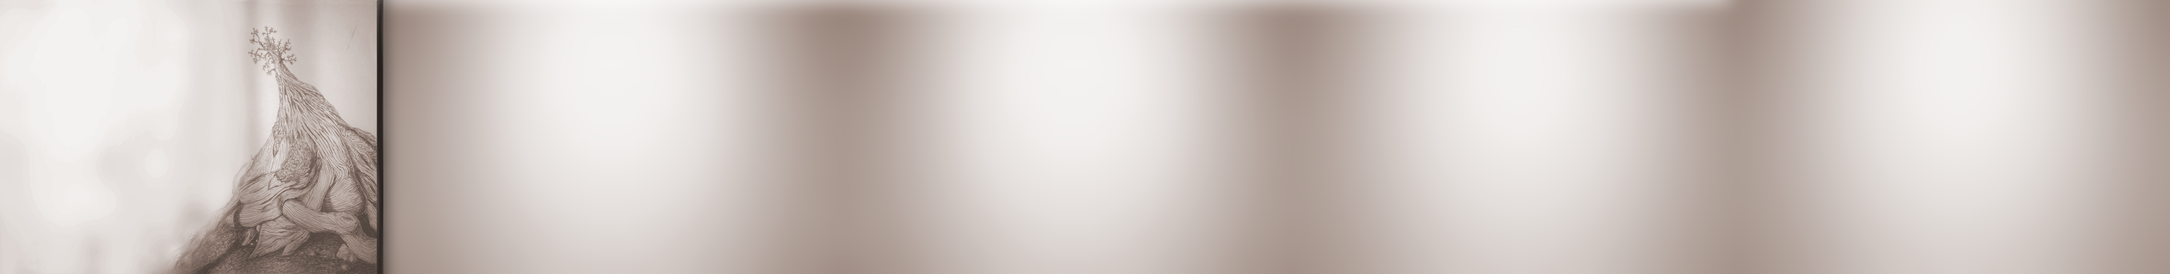
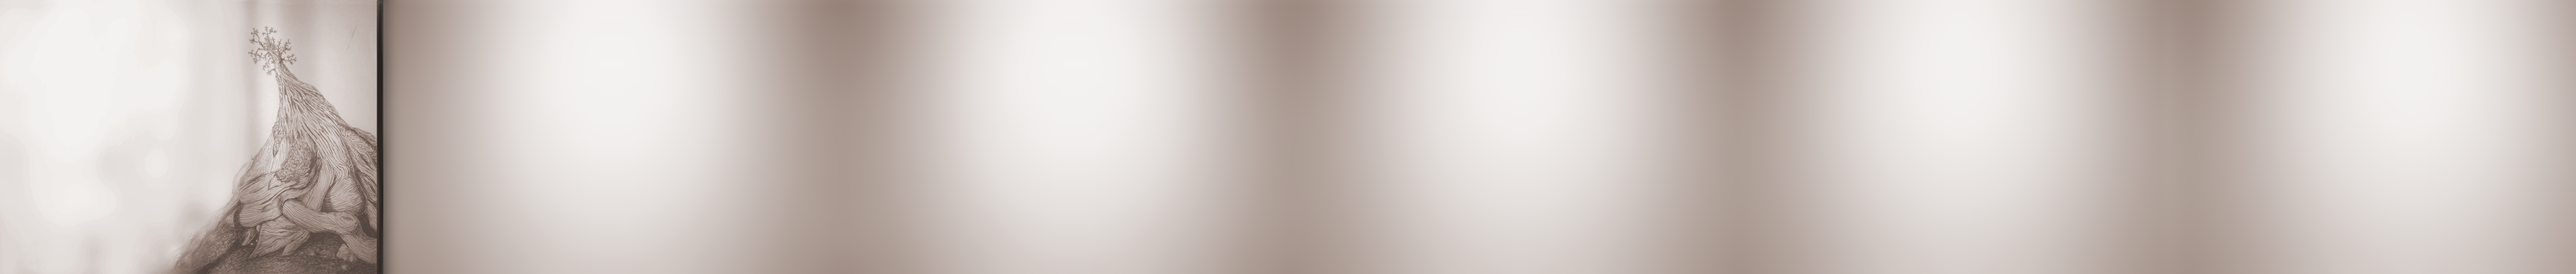
Added contact page, linked to request quote (to be used for a separate form) fixed other minor errors with resizing, still working on image resizing

diff --git a/gsmart/static/css/everything.css b/gsmart/static/css/everything.css
@@ -24,7 +24,8 @@ body {
 
 .horizon {
     top: 0px;
-    width: 5000px;
+    background-color: #CBCBCB;
+    width: 7000px;
     height: 100%;
     position: absolute;
 }
@@ -35,12 +36,14 @@ body {
 
 .horizon-small {
     top: 0px;
-    width: 1200px;
     position: absolute;
+    background-color: #CBCBCB;
 }
 
-.horizon-small {
+.horizon-small img {
     height: 100%;
+    width: 100%;
+    overflow-x: hidden;
 }
 
 .middle {
@@ -53,16 +56,23 @@ body {
 }
 
 .front {
-    width: 8650px;
+    width: 11800px;
     height: 100%;
     z-index: 500;
     top: 150px;
 }
 
 .front-small {
-    width: 1300px;
+    width: 100%;
     z-index: 600;
     top: 150px;
+}
+
+.front-contact {
+  width: 100%;
+  z-index: 600;
+  top: 0px;
+  margin-left: 10em;
 }
 
 .page {
@@ -82,12 +92,21 @@ body {
     font-family: basic;
 }
 
+.detail-intro {
+    background-color: #67918A;
+    padding: 1.2% 1.4% 1.15% 3.6%;
+    position: absolute;
+    top: -143px;
+    font-family: basic;
+}
+
 .description {
     left: 1000px;
 }
 
 #gallery-container {
     position: relative;
+    margin-left: 96em;
 }
 
 #gallery-welcome {
@@ -99,7 +118,7 @@ body {
 
 .collage-tile-2 {
     float: left;
-    margin-left: 65em;
+    margin-left: 52em;
     position: relative;
     top: -80px;
 }
@@ -150,6 +169,7 @@ body {
     width: 110px;
     font-size: 0.8em;
     opacity: 1;
+    left: -120px;
 }
 
 .img-detail {

diff --git a/gsmart/templates/head.html b/gsmart/templates/head.html
@@ -46,7 +46,7 @@
                     <span class="icon-bar"></span>
                     <span class="icon-bar"></span>
                 </button>
-                <a class="navbar-brand" href="#">Home</a>
+                <a class="navbar-brand" href="{% url 'home' %}">Home</a>
             </div>
             <!-- Collect the nav links, forms, and other content for toggling -->
             <div class="collapse navbar-collapse" id="bs-example-navbar-collapse-1">
@@ -58,7 +58,7 @@
                         <a href="#">Services</a>
                     </li>
                     <li>
-                        <a href="#">Contact</a>
+                        <a href="{% url 'contact' %}">Contact</a>
                     </li>
                 </ul>
             </div>
@@ -71,6 +71,9 @@
     <div class="container">
       {% block background %}
       {% endblock %}
+
+            {% block messages %}
+            {% endblock %}
 
             {% block content %}
             {% endblock %}

diff --git a/gsmart/templates/contact.html b/gsmart/templates/contact.html
@@ -1,0 +1,35 @@
+{% extends 'head.html' %}
+{% block title %}Contact - {{ block.super }}{% endblock %}
+
+{% block background %}
+
+<div class="horizon-small">
+  <img id="detail-background" style="height: 100%;" src="/static/img/single-gallery-wall.png" alt="" />
+</div>
+
+{% endblock %}
+
+{% block messages %}
+
+{% endblock %}
+
+{% block content %}
+{% if messages %}
+<ul class="messages">
+    {% for message in messages %}
+    <li{% if message.tags %} class="{{ message.tags }}"{% endif %}>{{ message }}</li>
+    {% endfor %}
+</ul>
+{% endif %}
+<div class="front-contact scroll">
+
+    <h1>Contact</h1>
+    <form role="form" action="" method="post">
+        {% csrf_token %}
+        {{ form.as_p }}
+        <button type="submit">Submit</button>
+    </form>
+
+</div>
+
+{% endblock %}

diff --git a/gsmart/templates/piece_detail.html b/gsmart/templates/piece_detail.html
@@ -16,7 +16,7 @@
 {% block content %}
 
   <div class="front-small scroll">
-      <h3 class="txt intro">G.S-M./Art</h3>
+      <h3 class="txt detail-intro">G.S-M./Art</h3>
 
         <a id="previous-button" class="btn btn-lg" href="/art/{{previous_slug}}">
           <span class="glyphicon glyphicon-chevron-left"></span>
@@ -37,6 +37,7 @@
           <br>
           <br>
           <span class="sub-text3">{{ piece.description}}</span>
+          <a href="{% url 'contact' %}" class="btn btn-secondary btn-lg active" role="button">Request Quote</a>
       </div>
 
       <div class="img-detail">

diff --git a/gsmart/templates/home.html b/gsmart/templates/home.html
@@ -1,0 +1,17 @@
+{% extends 'head.html' %}
+
+{% block background %}
+
+    <div class="horizon-small">
+      <img id="detail-background" style="height: 100%;" src="/static/img/single-gallery-wall.png" alt="" />
+    </div>
+
+{% endblock %}
+
+{% block content %}
+
+    <div class="front-small scroll">
+        <h3 class="txt detail-intro">G.S-M.</h3>
+    </div>
+
+{% endblock %}

diff --git a/gsmart/static/css/the-big-picture.css b/gsmart/static/css/the-big-picture.css
@@ -11,7 +11,7 @@ body {
 }
 
 .full {
-  background: url(http://placehold.it/1920x1080) no-repeat center center fixed; 
+  background: url(http://placehold.it/1920x1080) no-repeat center center fixed;
   -webkit-background-size: cover;
   -moz-background-size: cover;
   -o-background-size: cover;

diff --git a/gsmart/templates/gallery.html b/gsmart/templates/gallery.html
@@ -17,7 +17,7 @@
     <h3 class="txt intro">G.S-M./Art</h3>
 
       <div id="gallery-welcome" class="title-text">
-        <b> Gallery >> </b>
+        <b> Gallery </b>
        </div>
 
        <div id="gallery-container">

diff --git a/gsmart/portfolio/views.py b/gsmart/portfolio/views.py
@@ -1,10 +1,65 @@
 from django.shortcuts import render
+from django.shortcuts import redirect
 from django.http import HttpResponse
 from .models import Piece
+from portfolio.forms import ContactForm
+from django.template.loader import get_template
+from django.core.mail import EmailMessage
+from django.template import Context
+from django.contrib import messages
 # Create your views here.
 
-
 def home(request):
+
+    return render(request, 'home.html')
+
+
+def contact(request):
+    form_class = ContactForm
+
+    if request.method == 'POST':
+        form = form_class(data=request.POST)
+        
+        if not form.is_valid():
+            message = "Invalid Form!!!"
+            return render(request, 'contact.html', {'form': form_class, 'message':messages})
+
+
+        elif form.is_valid():
+            contact_name = request.POST.get(
+                'contact_name'
+            , '')
+            contact_email = request.POST.get(
+                'contact_email'
+            , '')
+            form_content = request.POST.get('content', '')
+
+            # Email the profile with the
+            # contact information
+            template = get_template('contact_template.txt')
+            context = Context({
+                'contact_name': contact_name,
+                'contact_email': contact_email,
+                'form_content': form_content,
+            })
+            content = template.render(context)
+
+            email = EmailMessage(
+                "New contact form submission",
+                content,
+                "Your website" +'',
+                ['youremail@gmail.com'],
+                headers = {'Reply-To': contact_email }
+            )
+
+            email.send()
+            messages.add_message(request, messages.INFO, 'Your message was submitted!')
+            return render(request, 'contact.html', {'form': form_class, 'message':messages})
+
+    return render(request, 'contact.html', {'form': form_class})
+
+
+def gallery(request):
     pieces = Piece.objects.order_by('image_rank')
 
     return render(request, 'gallery.html', {'pieces':pieces})

diff --git a/gsmart/portfolio/forms.py b/gsmart/portfolio/forms.py
@@ -1,0 +1,15 @@
+from django import forms
+
+class ContactForm(forms.Form):
+    contact_name = forms.CharField(required=True)
+    contact_email = forms.EmailField(required=True)
+    content = forms.CharField(
+        required=True,
+        widget=forms.Textarea
+    )
+
+    def __init__(self, *args, **kwargs):
+            super(ContactForm, self).__init__(*args, **kwargs)
+            self.fields['contact_name'].label = "Your name:"
+            self.fields['contact_email'].label = "Your email:"
+            self.fields['content'].label = "What do you want to say?"

diff --git a/gsmart/gsmart/urls.py b/gsmart/gsmart/urls.py
@@ -22,8 +22,10 @@ import settings
 
 urlpatterns = [
     url(r'^admin/', admin.site.urls),
-    url(r'^portfolio/', views.home, name='gallery'),
+    url(r'^home/', views.home, name='home'),
+    url(r'^portfolio/', views.gallery, name='gallery'),
     url(r'^art/(?P<slug>.+)/', views.piece_detail, name='piece_detail'),
+    url(r'^contact/$', views.contact, name='contact'),
 ]
 
 urlpatterns += staticfiles_urlpatterns()

diff --git a/gsmart/gsmart/settings.py b/gsmart/gsmart/settings.py
@@ -128,3 +128,11 @@ STATICFILES_DIRS = [
 
 MEDIA_ROOT = "/home/gabrielle/Documents/Portfolio/gsmart/static/img/uploads/"
 MEDIA_URL = '/media/'
+
+
+EMAIL_BACKEND = 'django.core.mail.backends.console.EmailBackend'
+DEFAULT_FROM_EMAIL = 'testing@example.com'
+EMAIL_HOST_USER = ''
+EMAIL_HOST_PASSWORD = ''
+EMAIL_USE_TLS = False
+EMAIL_PORT = 1025
